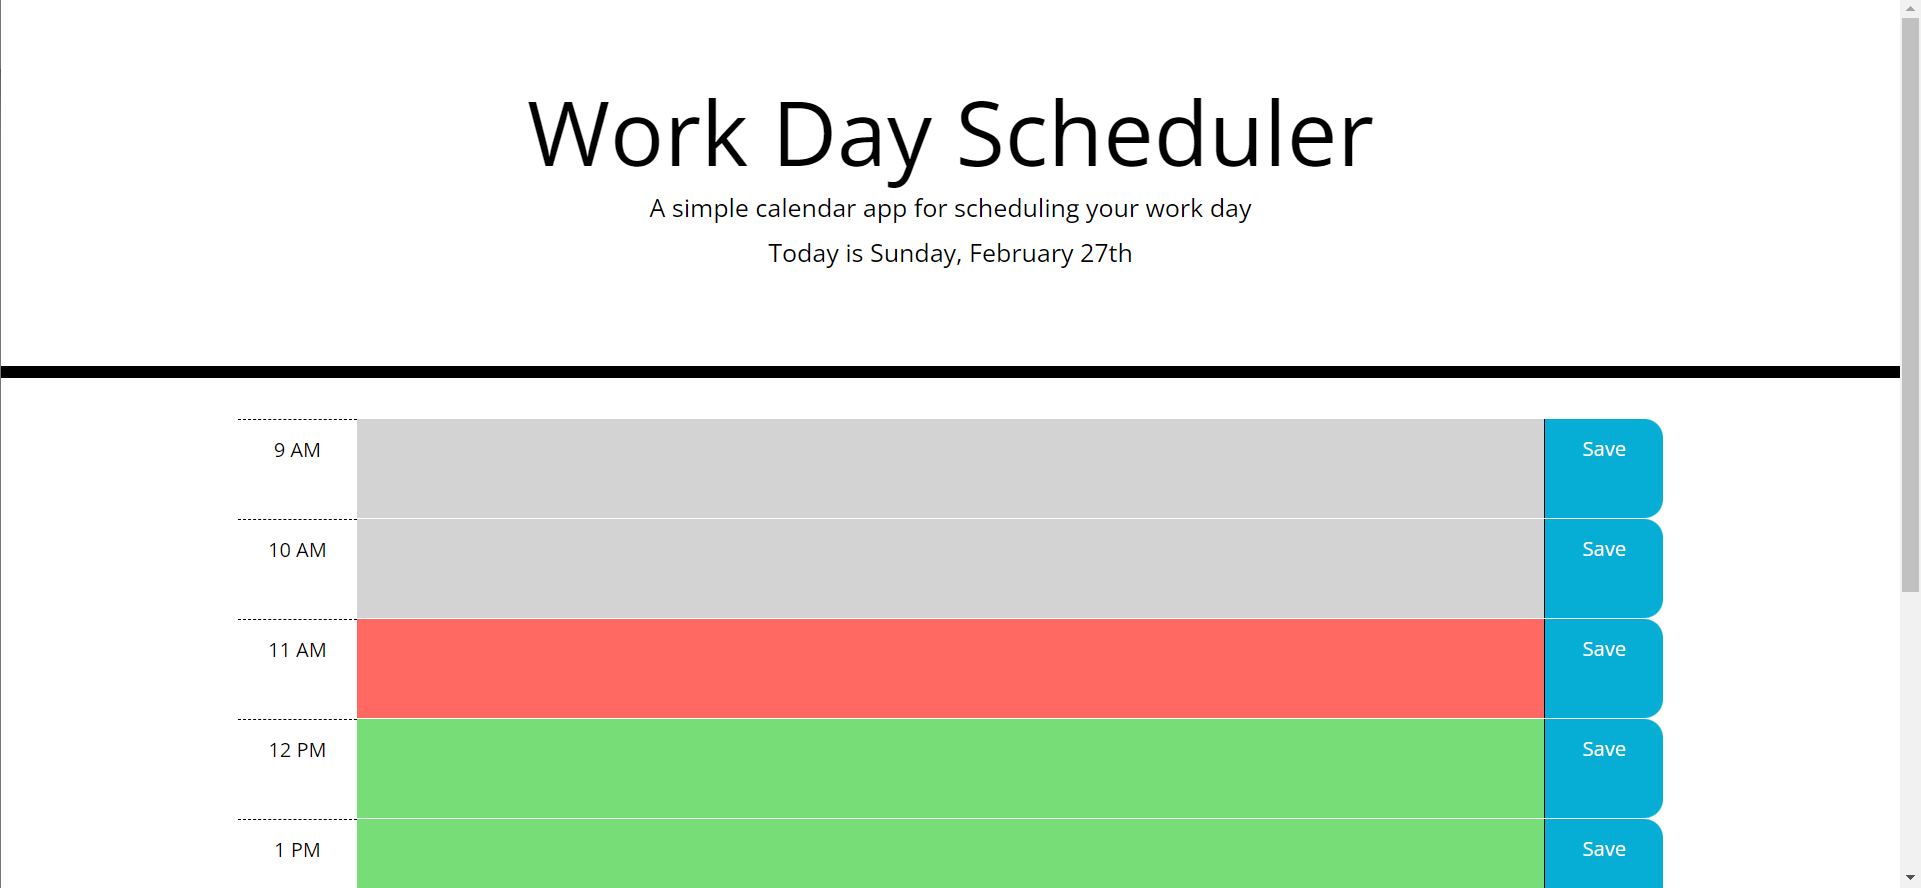
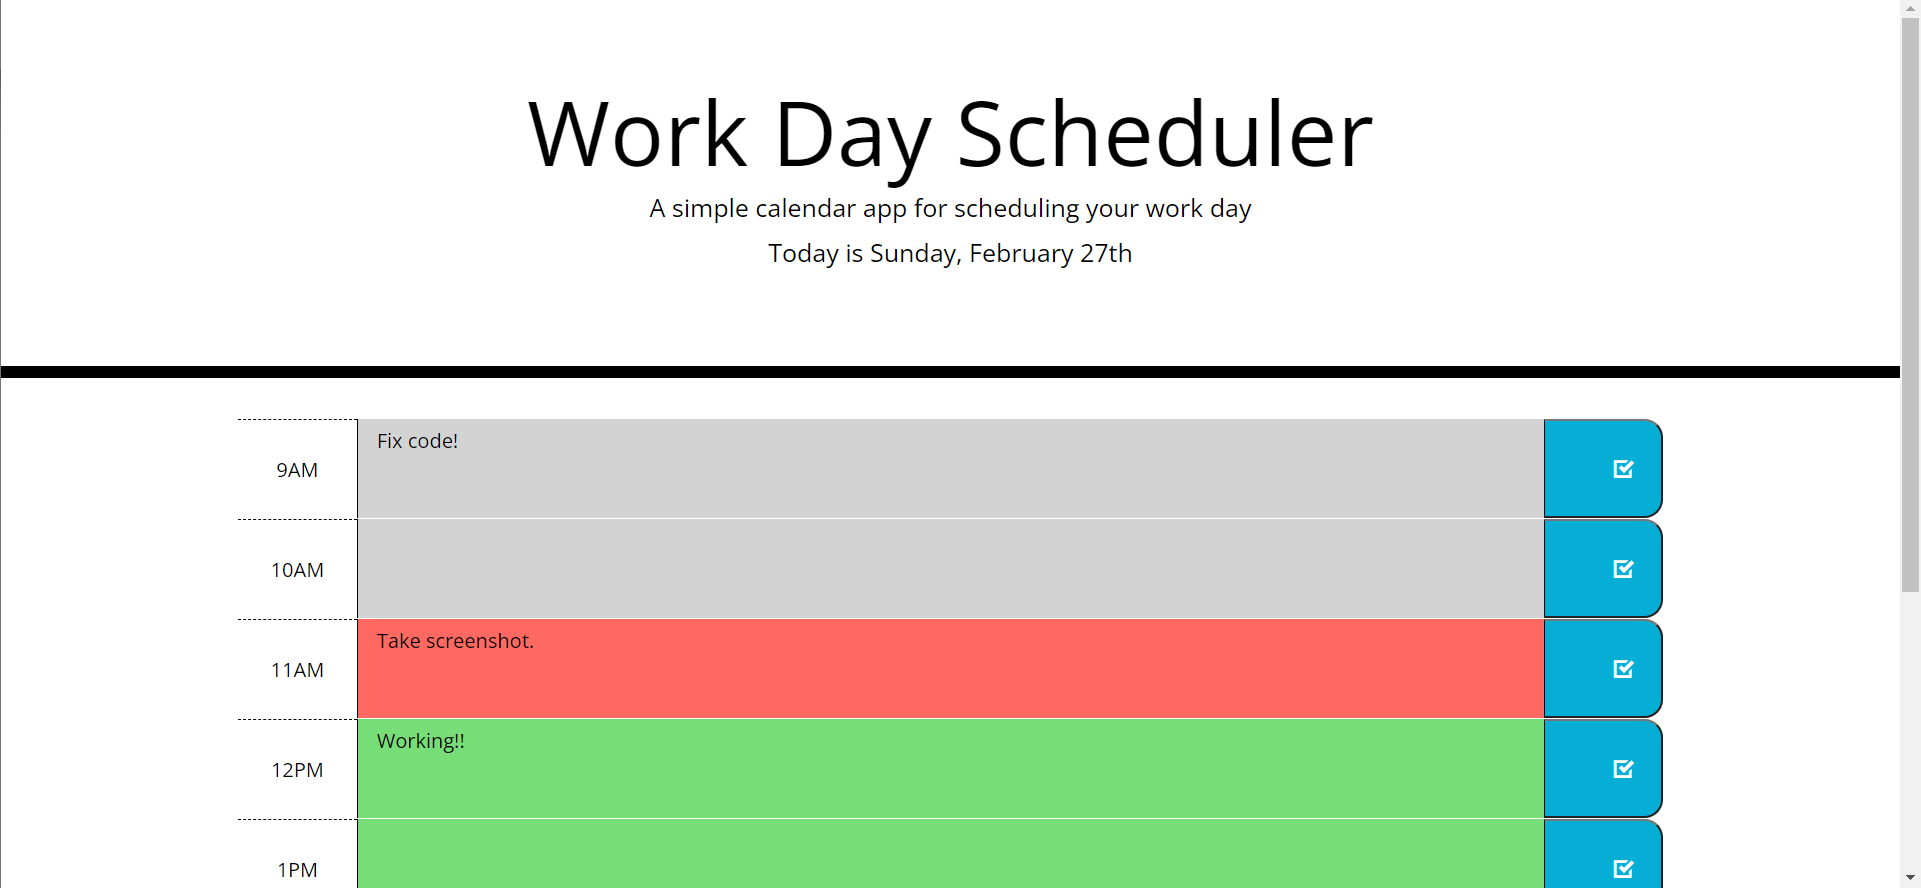
changed from creating timeblocks in js to html as it created issues

diff --git a/assets/js/script.js b/assets/js/script.js
@@ -1,50 +1,55 @@
-// clicking into event allows edit of events
-// save button saves
-// saved events persist in localstorage
-
-var tasks = [];
-
-// saves tasks to localStorage
-$('.saveBtn').on('click', function (event) {
-    event.preventDefault();
-
-    tasks = [];
-
-    $('.time-block').each(function () {
-        tasks.push({
-            index: $(this).attr('id'),
-            textP: $(this).find('textarea').val()
-        });
-        localStorage.setItem('tasks', JSON.stringify(tasks));
-    });
-});
-
-// load tasks
-var loadTasks = function () {
-    tasks = JSON.parse(localStorage.getItem("tasks"));
-
-    if (!tasks) {
-        tasks = {
-            index: [],
-            textP: []
-        };
-    }
-
-    for (i = 0; i < info.length; i++) {
-        $('.time-block').each(function () {
-            if (tasks[i].index === $(this).attr('id')) {
-                $(this).find("description").val(tasks[i].textP);
-            };
-        });
-    };
-};
-
-// displays today's date in header
+// displays today"s date in header
 var displayToday = function () {
     var today = moment().format("[Today is] dddd, MMMM Do");
     console.log(today);
     $("#currentDay").append(today);
 };
+
+var tasks = [];
+
+// load saved tasks
+function loadtasks() {
+    tasks = JSON.parse(localStorage.getItem("tasks"));
+
+    if(!tasks) {
+        return false;
+    };
+    
+    for (i = 0; i < tasks.length; i++) {
+        $(".time-block").each(function() {
+            if (tasks[i].timeSlot === $(this).attr("id")) {
+                $(this).find("textarea").val(tasks[i].text);
+            };
+        });
+    };
+};
+
+// save tasks on click
+$(".saveBtn").on("click", function(event) {
+    event.preventDefault();
+
+    tasks = [];
+
+    $(".time-block").each(function() {
+        tasks.push({
+            timeSlot: $(this).attr("id"),
+            text: $(this).find("textarea").val()
+        });
+        localStorage.setItem("tasks", JSON.stringify(tasks));
+    });
+});
+
+// procedurally creates block items
+// intended this as a way to change time slots some what on the fly, wasn't working. leaving it commented out because I feel I was onto something.
+// var createBlocks = function () {
+//     for (var i = 9; i <= 17; i++) {
+//         var timeBlock = $("<div>").attr("id", i).addClass("row time-block");
+//         var time = $("<div>").addClass("hour col-1").text(moment().hour(i).format("h A"));
+//         var text = $("<textarea>").addClass("description col-10");
+//         var save = $("<button>").addClass("saveBtn col-1").text("Save");
+//         $(".container").append(timeBlock.append(time).append(text).append(save));
+//     }
+// };
 
 // updates time blocks with coloration depending if past/present/future
 var updateBlocks = function () {
@@ -54,56 +59,23 @@ var updateBlocks = function () {
     for (var i = 9; i <= 17; i++) {
         $(".container").find(i)
         if (time > i) {
-            $("#" + i).removeClass('past present future').addClass("past")
-        }
+            $("#" + i).removeClass("past present future").addClass("past")
+        }    
         else if (time === i) {
-            $("#" + i).removeClass('past present future').addClass("present")
-        }
+            $("#" + i).removeClass("past present future").addClass("present")
+        }    
         else if (time < i) {
-            $("#" + i).removeClass('past present future').addClass("future")
-        }
-    }
-};
-
-// procedurally creates block items
-var createBlocks = function () {
-    for (var i = 9; i <= 17; i++) {
-        var timeBlock = $("<div>").addClass("row time-block");
-        var time = $("<div>").addClass("hour col-1 d-inline pt-3").text(moment().hour(i).format("h A"));
-        var text = $("<textarea>").attr("id", i).addClass("description textarea col-10 d-inline pt-3");
-        var save = $("<button>").addClass("saveBtn col-1 d-inline pt-3").text("Save");
-        $(".container").append(timeBlock.append(time).append(text).append(save));
-
-    }
-    updateBlocks();
-};
-
-var createTask = function () {
-    var taskP = $("<p>")
-        .text(taskText);
-
-    // need to create task (if any) and assign to correct block
-};
-
-displayToday();
-createBlocks();
-
-// event listener needs to listen to active click on block to allow p edit
-$(".description").on("click", "div", function () {
-    // get current text of p element
-    var text = $(this)
-        .text()
-        .trim();
-
-    // replace p element with a new textarea
-    var textInput = $("<textarea>").val(text);
-    $(this).replaceWith(textInput);
-
-    // auto focus new element
-    textInput.trigger("focus");
-});
+            $("#" + i).removeClass("past present future").addClass("future")
+        }    
+    }    
+};    
 
 // sets interval to check every 10 min for update to class
 setInterval(function () {
     updateBlocks()
 }, ((1000 * 60) * 10));
+
+displayToday();
+// createBlocks();
+updateBlocks();
+loadtasks();

diff --git a/index.html b/index.html
@@ -5,10 +5,13 @@
   <meta charset="UTF-8" />
   <meta name="viewport" content="width=device-width, initial-scale=1.0" />
   <meta http-equiv="X-UA-Compatible" content="ie=edge" />
+  <!-- stylings -->
   <link rel="stylesheet" href="https://stackpath.bootstrapcdn.com/bootstrap/4.3.1/css/bootstrap.min.css" />
   <link rel="stylesheet" href="https://use.fontawesome.com/releases/v5.8.1/css/all.css"
     integrity="sha384-50oBUHEmvpQ+1lW4y57PTFmhCaXp0ML5d60M1M7uH2+nqUivzIebhndOJK28anvf" crossorigin="anonymous" />
   <link href="https://fonts.googleapis.com/css?family=Open+Sans&display=swap" rel="stylesheet" />
+  <link href="https://cdnjs.cloudflare.com/ajax/libs/open-iconic/1.1.1/font/css/open-iconic-bootstrap.min.css"
+    rel="stylesheet">
   <link rel="stylesheet" href="./assets/css/style.css" />
   <title>Work Day Scheduler</title>
 </head>
@@ -19,9 +22,103 @@
     <p class="lead">A simple calendar app for scheduling your work day</p>
     <p id="currentDay" class="lead"></p>
   </header>
+
+<!-- timeblocks added here as JS solution wasn't working, hardcoded and not dynamic -->
+
   <div class="container flex-column">
+    <div id="9" class="row time-block">
+      <div class="hour col-1">
+        9AM
+      </div>
+      <textarea class="description col-10"></textarea>
+      <button class="saveBtn col-1">
+        <span class="oi oi-task"></span>
+      </button>
+    </div>
+
+    <div id="10" class="row time-block">
+      <div class="hour col-1">
+        10AM
+      </div>
+      <textarea class="description col-10"></textarea>
+      <button class="saveBtn col-1">
+        <span class="oi oi-task"></span>
+      </button>
+    </div>
+
+    <div id="11" class="row time-block">
+      <div class="hour col-1">
+        11AM
+      </div>
+      <textarea class="description col-10"></textarea>
+      <button class="saveBtn col-1">
+        <span class="oi oi-task"></span>
+      </button>
+    </div>
+
+    <div id="12" class="row time-block">
+      <div class="hour col-1">
+        12PM
+      </div>
+      <textarea class="description col-10"></textarea>
+      <button class="saveBtn col-1">
+        <span class="oi oi-task"></span>
+      </button>
+    </div>
+
+    <div id="13" class="row time-block">
+      <div class="hour col-1">
+        1PM
+      </div>
+      <textarea class="description col-10"></textarea>
+      <button class="saveBtn col-1">
+        <span class="oi oi-task"></span>
+      </button>
+    </div>
+
+    <div id="14" class="row time-block">
+      <div class="hour col-1">
+        2PM
+      </div>
+      <textarea class="description col-10"></textarea>
+      <button class="saveBtn col-1">
+        <span class="oi oi-task"></span>
+      </button>
+    </div>
+
+    <div id="15" class="row time-block">
+      <div class="hour col-1">
+        3PM
+      </div>
+      <textarea class="description col-10"></textarea>
+      <button class="saveBtn col-1">
+        <span class="oi oi-task"></span>
+      </button>
+    </div>
+
+    <div id="16" class="row time-block">
+      <div class="hour col-1">
+        4PM
+      </div>
+      <textarea class="description col-10"></textarea>
+      <button class="saveBtn col-1">
+        <span class="oi oi-task"></span>
+      </button>
+    </div>
+
+    <div id="17" class="row time-block">
+      <div class="hour col-1">
+        5PM
+      </div>
+      <textarea class="description col-10"></textarea>
+      <button class="saveBtn col-1">
+        <span class="oi oi-task"></span>
+      </button>
+    </div>
+  </div>
   </div>
 
+  <!-- scripts -->
   <script src="https://code.jquery.com/jquery-3.4.1.min.js"></script>
   <script src="https://cdnjs.cloudflare.com/ajax/libs/moment.js/2.24.0/moment.min.js"></script>
   <script src="./assets/js/script.js"></script>

diff --git a/assets/css/style.css b/assets/css/style.css
@@ -44,17 +44,17 @@ textarea {
 
 .past {
   background-color: #d3d3d3;
-  color: white;
+  color: black;
 }
 
 .present {
   background-color: #ff6961;
-  color: white;
+  color: black;
 }
 
 .future {
   background-color: #77dd77;
-  color: white;
+  color: black;
 }
 
 .saveBtn {
@@ -65,7 +65,7 @@ textarea {
   color: white;
 }
 
-.saveBtn i:hover {
-  font-size: 20px;
+.saveBtn:hover {
+  color: greenyellow;
   transition: all .3s ease-in-out;
 }
